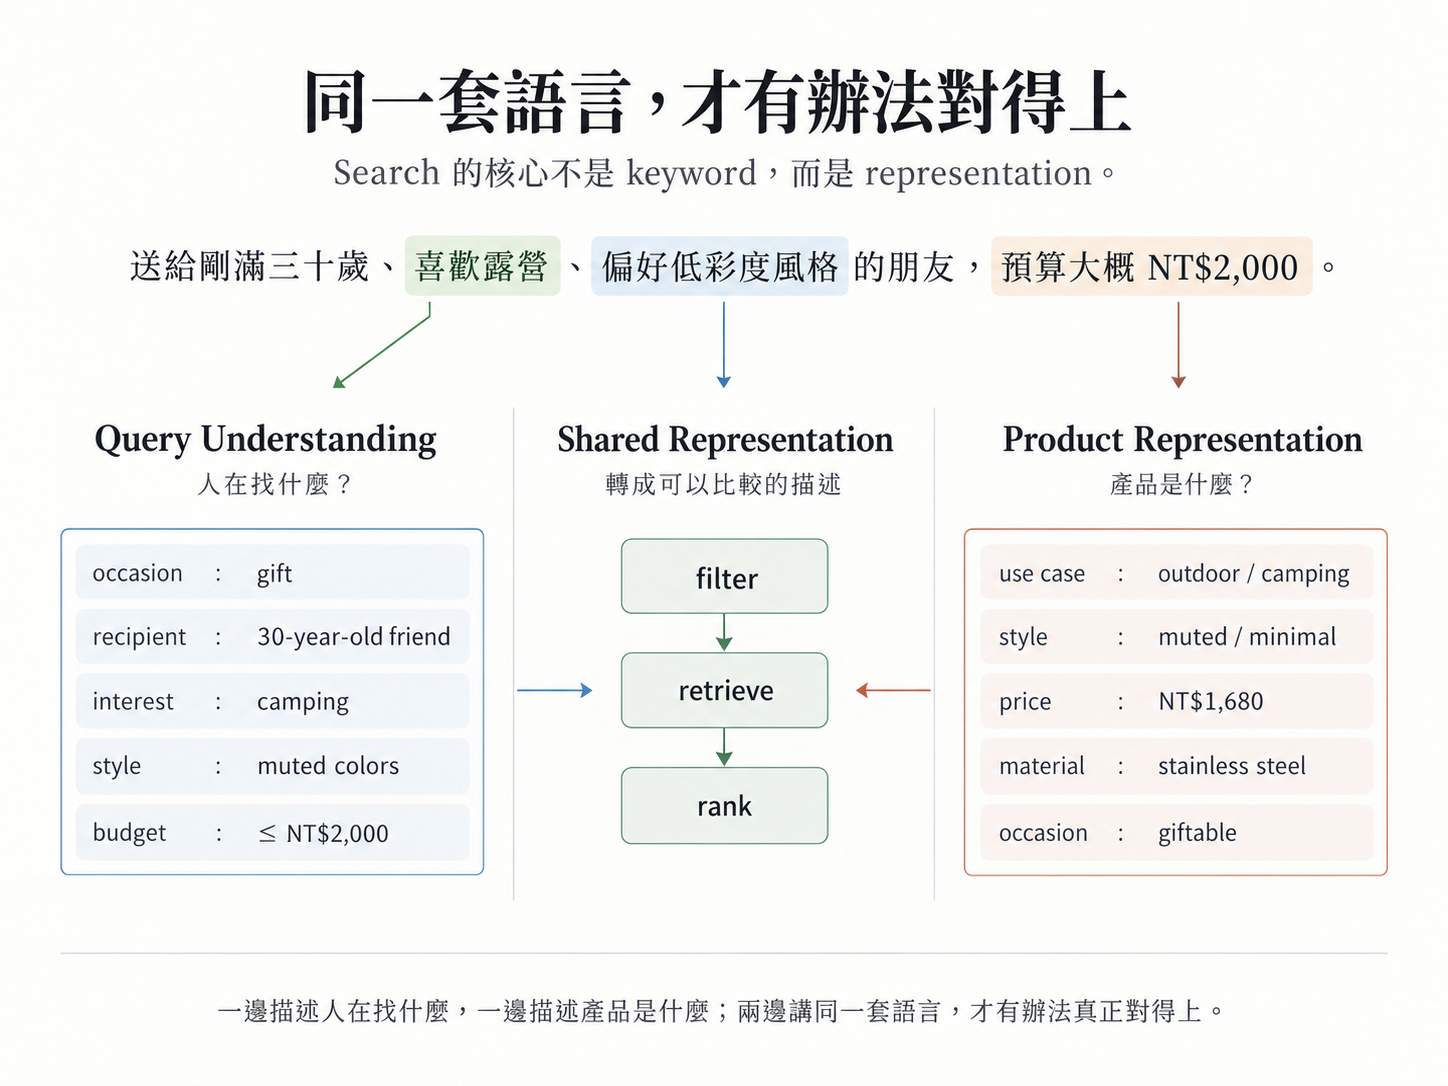
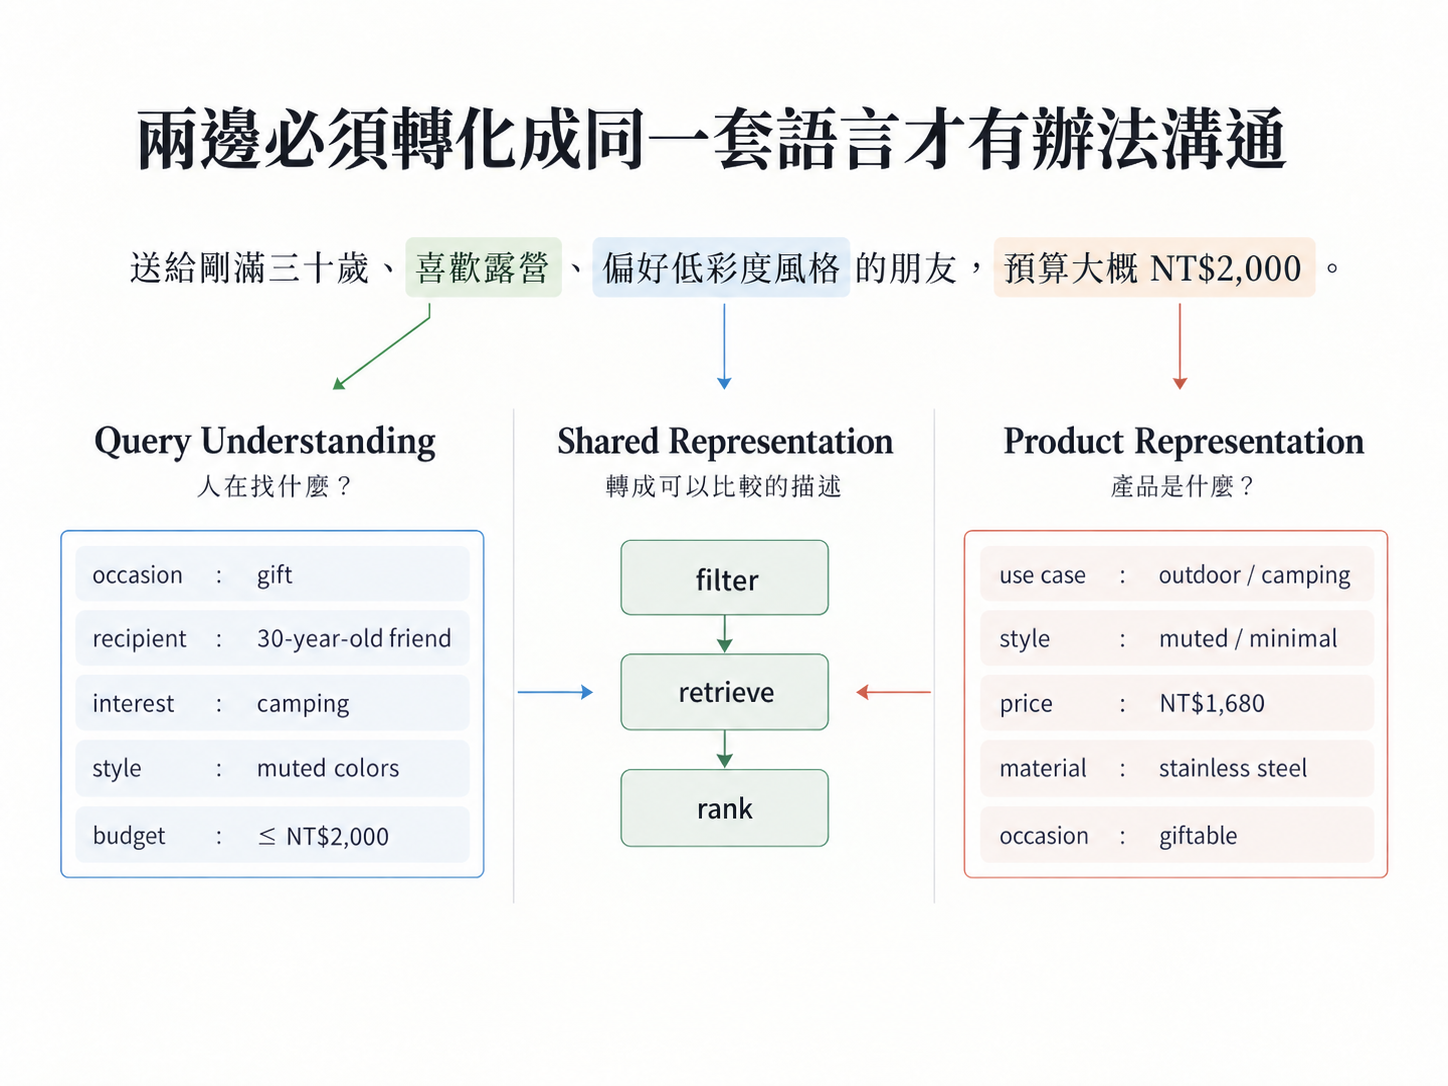
content(ironman): sync Day 02 from Notion, update product-representation image
Tighten wording throughout (English jargon replaced with Chinese where
Notion's draft does), drop the undecided Product Detail Page aside, and
swap the query/product-representation diagram for the new version.

diff --git a/src/content/blog/zh/day-02-discovery-problem.md b/src/content/blog/zh/day-02-discovery-problem.md
@@ -24,7 +24,7 @@ notion: https://app.notion.com/p/patrickytc/Day-02-discovery-problem-3b10d2d793c
 
 ## 如何有系統性地抓取資料進資料庫？
 
-高品質的資料是一個平台最根本的基礎，但這一步往往也是最難 generalize 的部分。如果只是收集品牌官網，專案最後的成品只會是一份網站目錄，像是一本現在很少人會主動翻閱的黃頁；只有把不同來源整理成一致、可查詢、可比較的結構化資料，它才真正成為一個可以被利用的產品資料庫。
+高品質的資料是一個平台最根本的基礎，但這一步往往也是最困難的一步。如果只是收集品牌官網，專案最後的成品只會是一份網站目錄，像是一本現在很少人會主動翻閱的黃頁；只有把不同來源整理成一致、可查詢、可比較的結構化資料，它才真正成為一個可以被利用的產品資料庫。
 
 在實作上，大致可以分成幾種方法：
 
@@ -32,7 +32,7 @@ notion: https://app.notion.com/p/patrickytc/Day-02-discovery-problem-3b10d2d793c
 
 最簡單的方法，就是維護一份店家清單，再人工把需要的欄位補齊。這不需要任何程式，也非常適合專案早期快速驗證；但隨著想呈現的欄位越來越多，人工整理會迅速變得繁瑣，也很難確保不同品牌之間的資料品質一致。
 
-### 2. Deterministic Code / Adapters Only
+### 2. Deterministic Code / Adapters
 
 再進一步，可以針對常見的開店平台各寫一支 Adapter。例如看到 Shopify，就走 Shopify 的抓取邏輯；看到另一個電商平台，就使用另一組 parser，再透過固定的 function 把名稱、價格、圖片、商品連結等欄位抽取出來。
 
@@ -45,19 +45,19 @@ notion: https://app.notion.com/p/patrickytc/Day-02-discovery-problem-3b10d2d793c
 例如 Agent 可以根據目前看到的網站決定：
 
 1. 靜態 HTTP fetch 是否已經足夠？
-2. 是否需要打開 browser render JavaScript？
+2. 是否需要改用 browser 執行 JavaScript？
 3. 商品可能藏在哪些頁面？
 4. 要繼續抓下一頁，還是目前拿到的資料已經足夠？
-5. 如果目前結果明顯不完整，要不要換一種 strategy 再試一次？
+5. 如果目前結果明顯不完整，要不要換一種策略再試一次？
 6. 這個來源是不是根本不值得繼續嘗試？
 
-為什麼不乾脆全部交給 AI？原因很簡單：**如果一件事本來就可以用 deterministic code 穩定完成，換成模型反而會增加成本、延遲與不確定性**。所以能夠 deterministic 的 extraction、schema validation、去重與資料寫入等流程，我會盡量留在 code 裡；只有那些真的需要理解上下文或做語意判斷的 enrichment，才交給模型。
+為什麼不乾脆全部交給 AI？原因很簡單：**如果一件事本來就可以用 deterministic code 穩定完成，換成模型反而會增加成本、延遲與不確定性**，所以 extraction、schema validation、去重與資料寫入這些**規則明確、可以穩定執行的流程**，我會盡量留在程式裡；只有那些真的需要理解上下文或做語意判斷的 enrichment，才交給模型。
 
 > **Agent 負責 decision-making，code 負責 reliable execution。**
 
 ![AI 不需要做完整條 pipeline](/images/ironman/day-02-control-execution-plane.png)
 
-至於 Agent 到底應該負責哪些 decision、要做成一顆 Agent 還是拆成多個 Agent，以及這樣的迭代流程怎麼設計，就是後面幾天會繼續討論的內容。
+至於 Agent 到底應該負責哪些決策、要做成一顆 Agent 還是拆成多個 Agent，以及這樣的迭代流程怎麼設計，就是後面幾天會繼續討論的內容。
 
 除此之外，LLM 還有另一個傳統 rule-based system 比較難處理的能力：**需要上下文的語意判斷。** 例如 `S'MORE` 既可以指美國常見的點心，也是一個日本戶外用品品牌。如果只做 exact string matching，兩個相同字串很容易被當成同一個 entity；但如果同時考慮網站內容、商品類別、品牌描述等上下文，模型就有機會判斷它們其實代表完全不同的東西。
 
@@ -72,19 +72,19 @@ notion: https://app.notion.com/p/patrickytc/Day-02-discovery-problem-3b10d2d793c
 2. 搜尋結果裡混合了一些廣告或平台希望優先曝光的內容，它們可能相關，卻不一定最符合需求。
 3. 又或者腦中其實知道自己想找什麼，卻不知道該怎麼把這個需求轉換成精準的關鍵字。
 
-這背後不只是搜尋技術的問題，也和搜尋系統究竟在 optimize 什麼有關。對使用者來說，搜尋最重要的目標通常很單純：**用最少的時間，找到最符合當下需求的東西。**
+這背後不只是搜尋技術的問題，也和搜尋系統究竟在最佳化什麼有關。對使用者來說，搜尋最重要的目標通常很單純：**用最少的時間，找到最符合當下需求的東西。**
 
-但對商業平台來說，relevance 往往不是唯一需要 optimize 的 objective。搜尋結果可能還同時受到點閱率、轉換率、商品熱度、賣家品質、廣告收益、庫存與平台本身商業策略等因素影響。這些目標不一定彼此衝突，但也不一定永遠和「最符合這次需求」完全一致。
+但對商業平台來說，搜尋系統通常不只需要最佳化 relevance。搜尋結果可能還同時受到點閱率、轉換率、商品熱度、賣家品質、廣告收益、庫存與平台本身商業策略等因素影響，而這些商業目標往往和 relevant 不完全一致。
 
-另一方面，許多搜尋體驗仍高度依賴關鍵字、既有分類以及 filter，但人真正產生需求時，腦中的想法通常不是一組乾淨的商品欄位。例如：
+另一方面，許多搜尋體驗仍高度依賴關鍵字、產品分類以及篩選條件，但人真正產生需求時，腦中的想法通常不是一組乾淨的商品欄位。例如：
 
 > 我想找一個禮物，送給剛滿三十歲、喜歡露營、偏好低彩度風格的朋友，預算大概 NT$2,000。
 
-這句話裡同時包含了送禮情境、對象、興趣、風格偏好以及價格限制。我們當然可以一直增加資料庫分類，例如「露營用品」、「送禮推薦」、「30 歲男性」、「低彩度」，但使用者可能提出的需求組合幾乎沒有上限。問題並不是資料庫不能增加更多欄位，而是我們不可能事先替所有可能的搜尋情境建立一套 taxonomy。
+這句話裡同時包含了送禮情境、對象、興趣、風格偏好以及價格限制。我們當然可以一直增加資料庫分類，例如「露營用品」、「送禮推薦」、「30 歲族群」、「低彩度」，但使用者可能提出的需求組合幾乎沒有上限。問題並不是資料庫不能增加更多欄位，而是我們不可能事先替所有可能的搜尋情境建立一套 taxonomy。
 
-因此另一種思考方式，是不要要求使用者先學會「這個系統到底接受什麼關鍵字」，而是讓系統試著理解使用者真正表達的 intent。
+因此另一種思考方式，是不要要求使用者先學會「這個系統到底接受什麼關鍵字」，而是讓系統試著理解使用者真正表達的搜尋意圖（intent）。
 
-今天的搜尋還有另一層問題：**曝光本身並不是完全中立的。** 有大量既有流量、有成熟行銷團隊、累積大量交易紀錄，或有更多資源投放廣告的品牌，通常更容易取得曝光。對新品牌來說，這其中也包含典型的 cold-start problem：沒有歷史互動資料，ranking system 就更難評估它；而當曝光本身又會進一步產生點閱、收藏、購買等 ranking signals 時，就容易形成「越被看見 → 越多互動 → 越容易繼續被看見」的 feedback loop。
+今天的搜尋還有另一層問題：**曝光本身並不是完全中立的。** 有大量既有流量、有成熟行銷團隊、累積大量交易紀錄，或有更多資源投放廣告的品牌，通常更容易取得曝光。對新品牌來說，這其中也包含典型的 cold-start problem：沒有歷史互動資料，ranking system 就更難評估它；而當曝光本身又會進一步產生點閱、收藏、購買等 ranking signals 時，就容易形成「越被看見 → 越多互動 → 越容易繼續被看見」的回饋循環（feedback loop）。
 
 這並不代表排名前面的產品不好，但反過來說，一個沒有行銷預算、沒有歷史流量的小品牌，也不代表它和這次搜尋沒有關係。
 
@@ -96,17 +96,17 @@ notion: https://app.notion.com/p/patrickytc/Day-02-discovery-problem-3b10d2d793c
 
 ### 1. Query Understanding
 
-系統要理解使用者說的到底是什麼：使用情境是什麼、送給誰、有哪些偏好，又有哪些不能違反的限制。例如「NT$2,000 以下」可能是一個 hard constraint；「低彩度」比較像一個 soft preference；「適合喜歡露營的朋友」則可能需要結合更多 context 才能判斷。
+系統要理解使用者說的到底是什麼：使用情境是什麼、送給誰、有哪些偏好，又有哪些不能違反的限制。例如「NT$2,000 以下」可能是一個 hard constraint；「低彩度」比較像一個 soft preference；「適合喜歡露營的朋友」則可能需要結合更多上下文才能判斷。
 
 ### 2. Product Representation
 
 產品不能只有名稱、品牌和 category。系統還需要理解它的材質、用途、風格、價格帶、製造方式、適合的使用情境，以及其他可能影響 relevance 的特徵，再把它們轉換成可以被比較的 representation。
 
-一邊描述「人在找什麼」，另一邊描述「產品是什麼」。**兩邊講同一套語言，才有辦法真正對得上。**
+一邊描述「人在找什麼」，另一邊描述「產品是什麼」，**兩邊必須轉化成同一套語言才有辦法溝通**。
 
-![同一套語言，才有辦法對得上](/images/ironman/day-02-query-product-representation.png)
+![兩邊必須轉化成同一套語言才有辦法溝通](/images/ironman/day-02-query-product-representation.png)
 
-接下來的三十天內我們會深入討論以下的話題：這些 product features 應該怎麼定義？哪些可以從 structured data 取得，哪些需要 AI inference？Query 又應該如何拆解？最後要使用 filtering、semantic retrieval、ranking，還是幾種方法一起搭配？
+接下來的三十天內我們會深入討論以下的話題：這些產品特徵應該怎麼定義？哪些可以從結構化資料取得，哪些需要 AI 推論？Query 又應該如何拆解？最後要使用 filtering、semantic retrieval、ranking，還是幾種方法一起搭配？
 
 
 ## 使用者不知道要找什麼的時候，Discovery Layer 要替他先開口
@@ -130,7 +130,7 @@ notion: https://app.notion.com/p/patrickytc/Day-02-discovery-problem-3b10d2d793c
 - 想找一份送朋友的禮物
 - 開始自己在家煮咖啡
 
-每一個情境底下，我們不是單純放銷量最高的產品，因為這個平台並不是電商。我們更想找的是一組真的和這個情境有關，而且彼此放在一起是合理的 selection，比較接近「線上選物店」的概念。
+每一個情境底下，我們不是單純放銷量最高的產品，因為這個平台並不是電商。我們更想找的是一組真的和這個情境有關，而且彼此放在一起也合理的選品組合，比較接近「線上選物店」的概念。
 
 但這又帶出下一個問題：假設「開始自己煮咖啡」底下有三百個相關產品，到底哪二十個應該先出現？這時候搜尋和探索的 ranking objective 就開始出現差異。
 
@@ -154,12 +154,10 @@ notion: https://app.notion.com/p/patrickytc/Day-02-discovery-problem-3b10d2d793c
 3. **結果頁**：呈現搜尋或探索之後的一組 products；
 4. **品牌頁**：讓使用者知道品牌是誰、有哪些產品，以及可以在哪裡找到它。
 
-有一個問題我目前其實還沒有完全決定：**產品本身需不需要獨立的 Product Detail Page？**
-
-如果這個平台最後的定位是「產品作為入口、品牌作為目的地」，那產品可能只需要作為 discovery card，點擊後進到品牌頁或原始官網；但如果產品本身的資料與關聯逐漸變得夠豐富，那它也可能值得成為一個一級頁面。
-
-這部分我目前還沒有答案。後面幾天會再逐步把這些 surface 畫出來，也會一起討論背後需要哪些資料與 ranking logic。
-
 ## 明天要聊什麼？
 
-今天我們將具體的商業問題拆分成三塊：資料要先進得來、搜尋要對上情境、使用者還不知道自己要什麼的時候該怎麼辦。明天開始我們將先探討資料層面的內容，聊聊該怎麼把「一盞不刺眼的燈」這種句子，拆成機器抽得出來、也存得進資料庫的特徵。
+今天我們把產品問題拆成三塊：資料要先進得來、搜尋要能對上情境，以及使用者還不知道自己要什麼時，系統該怎麼幫他探索。
+
+明天開始會先從資料層往下拆：該怎麼把「送給剛滿三十歲、喜歡露營、偏好低彩度風格的朋友，預算大概 NT$2,000」這種描述，變成機器抽得出來、也存得進資料庫的特徵。
+
+我們明天見！
